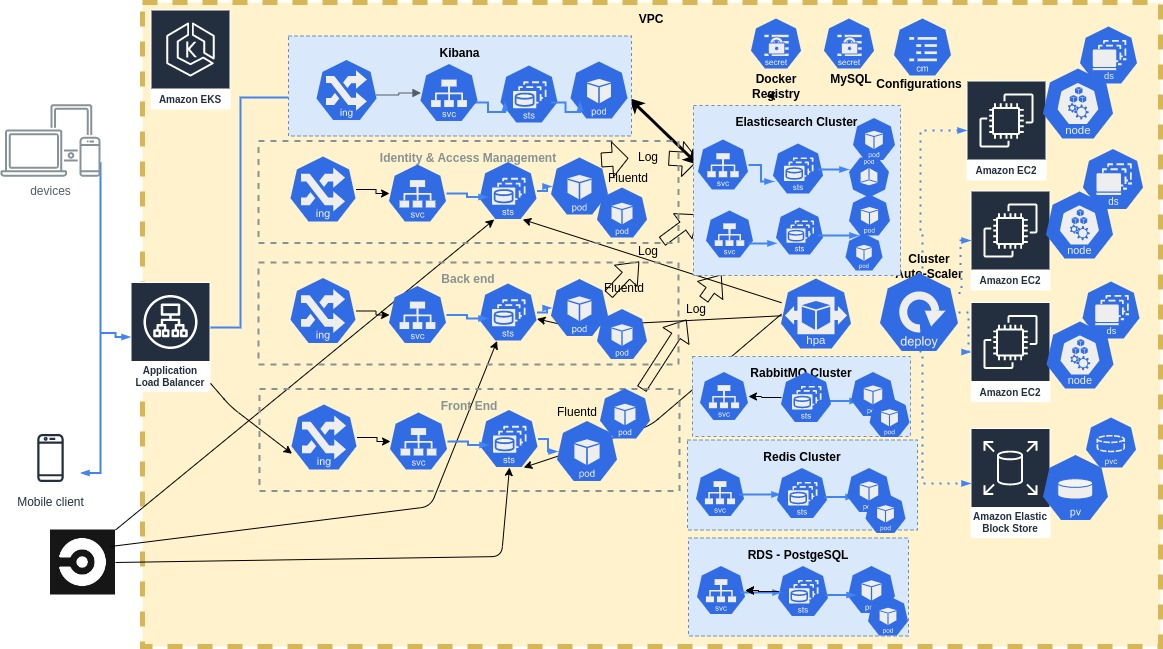
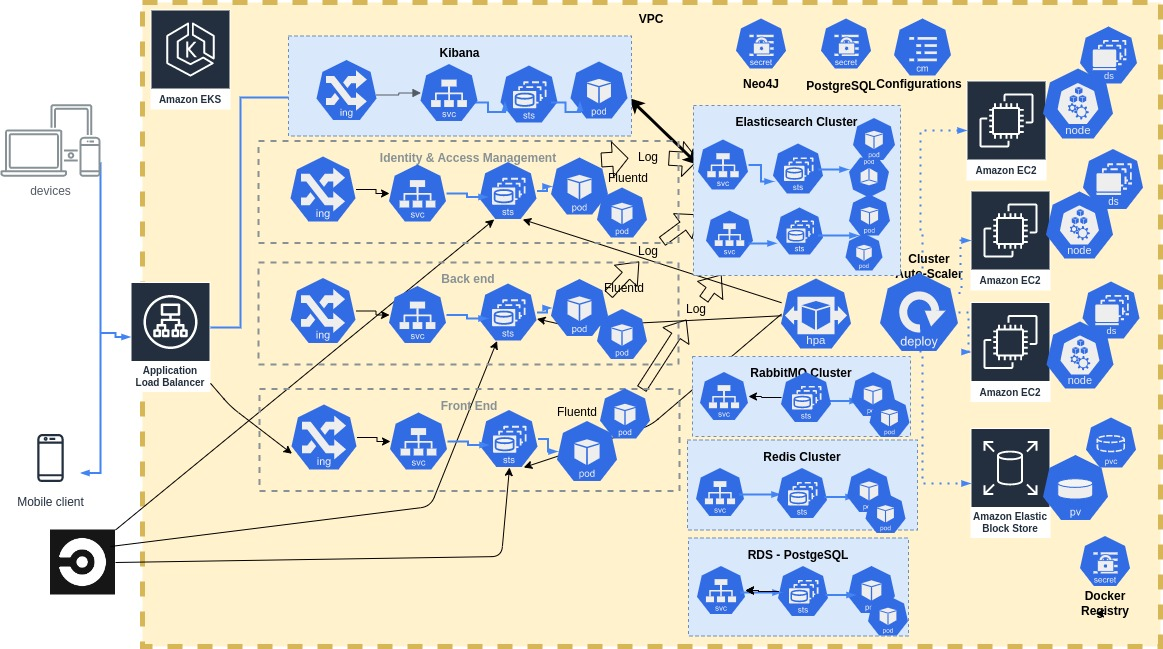
Disable TLS for Neo4J for now. Update README

Changed region(s): [[0.6191, 0.0308, 0.7739, 0.1541], [0.9286, 0.832, 0.9905, 0.9553]]

diff --git a/README.md b/README.md
@@ -2,7 +2,10 @@
 
 Kubernetes cluster which consists of the following components:
 
-- RestAPI application
+- RestAPI applications
+- Databases
+  - PostgreSQL
+  - Neo4J
 - Elasticsearch cluster
   - 3 Master nodes
   - 2 Slave nodes
@@ -57,7 +60,8 @@ pod/elasticsearch-master-1                    1/1     Running     0          108
 pod/elasticsearch-master-2                    1/1     Running     0          108m
 pod/kibana-0                                  1/1     Running     0          14m
 pod/kibana-1                                  1/1     Running     0          14m
-pod/mysql-0                                   1/1     Running     0          140m
+pod/postgresql-0                              1/1     Running     8 (4h10m ago)     3d22h
+pod/neo4j-0                                   1/1     Running     0          14m
 pod/nginx-ingress-microk8s-controller-ppplj   1/1     Running     0          142m
 pod/restapi-0                                 2/2     Running     0          49m
 pod/restapi-1                                 2/2     Running     0          49m
@@ -77,10 +81,17 @@ service/kubernetes                    ClusterIP   10.152.183.1     <none>       
 service/svc-elasticsearch             ClusterIP   None             <none>        9200/TCP,9300/TCP   108m
 service/svc-elasticsearch-discovery   ClusterIP   None             <none>        9300/TCP            108m
 service/svc-kibana                    ClusterIP   None             <none>        8080/TCP            14m
-service/svc-mysql                     ClusterIP   None             <none>        3306/TCP            140m
+service/svc-postgresql                ClusterIP   None             <none>        5432/TCP            3d22h
+service/svc-postgresql-nodeport       NodePort    10.152.183.70    <none>        5432:30000/TCP      3d22h
 service/svc-restapi                   ClusterIP   None             <none>        8080/TCP,8443/TCP   49m
-service/svc-rabbitmq                     ClusterIP   None             <none>        15672/TCP,5672/TCP   5d7h
-service/svc-redis-cluster                ClusterIP   None             <none>        6379/TCP,16379/TCP   61d
+service/svc-pythonrestapi             ClusterIP   None             <none>        80/TCP,443/TCP,443/UDP                         2d21h
+service/svc-pythonrestapi-nodeport    NodePort    10.152.183.57    <none>        443:31001/TCP,443:31002/UDP                    2d21h
+service/svc-rabbitmq                  ClusterIP   None             <none>        15672/TCP,5672/TCP  5d7h
+service/svc-redis-cluster             ClusterIP   None             <none>        6379/TCP,16379/TCP  61d
+service/svc-ragagent                  ClusterIP   None             <none>        80/TCP,4433/TCP,443/UDP                        20h
+service/svc-ragagent-nodeport         NodePort    10.152.183.66    <none>        443:31003/TCP,443:31004/UDP                    20h
+service/svc-neo4j                     ClusterIP   None             <none>        7473/TCP,7474/TCP,7687/TCP                     5m56s
+service/svc-neo4j-nodeport            NodePort    10.152.183.170   <none>        7473:30002/TCP,7474:30003/TCP,7687:30004/TCP   5m56s
 
 NAME                                               DESIRED   CURRENT   READY   UP-TO-DATE   AVAILABLE   NODE SELECTOR   AGE
 daemonset.apps/daemonset                           1         1         1       1            1           <none>          108m
